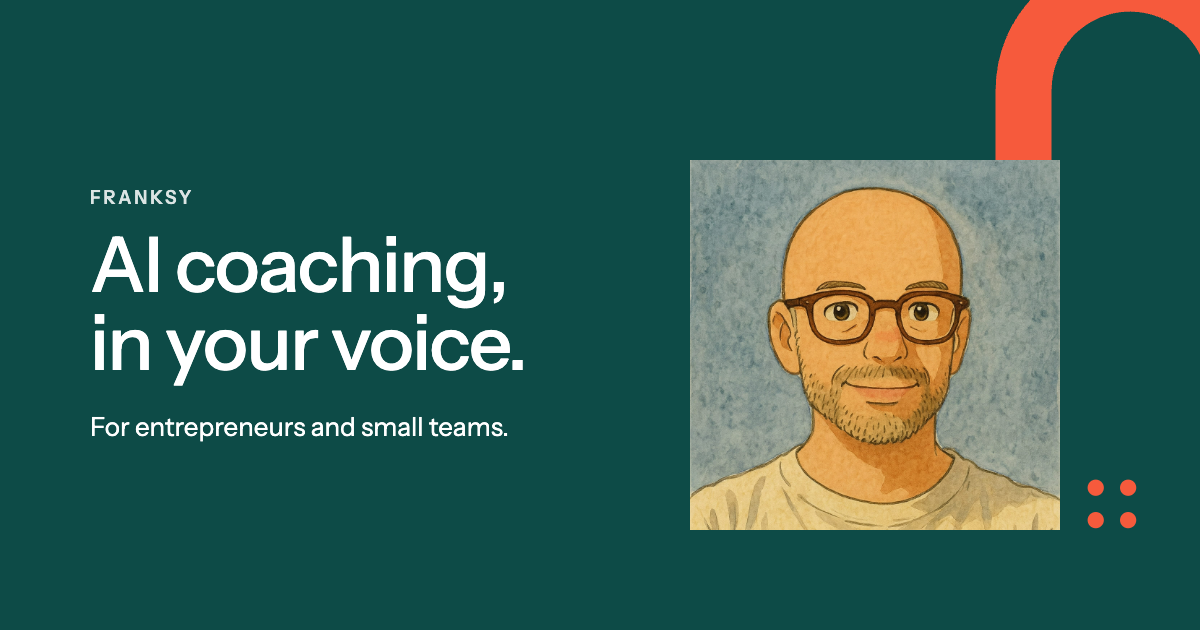
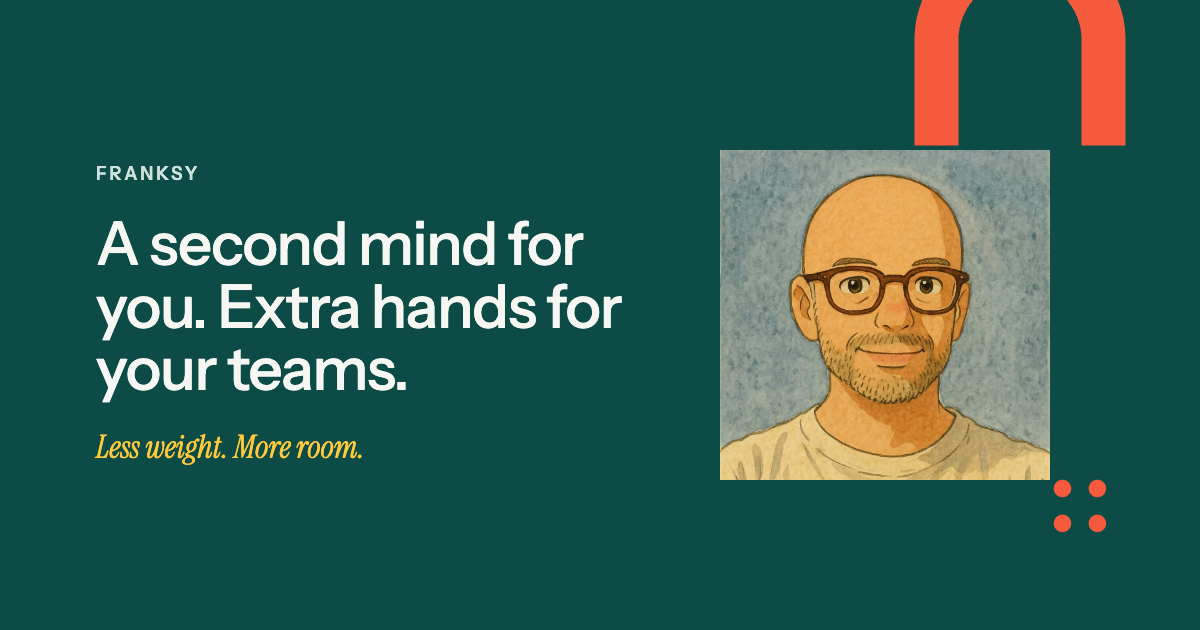
feat(home): say what is offered first, livelier framework section, new link previews
- Homepage order: hero, what this is (new statement), the five levels as
  cards (shape, delegation meter, who does what, an example), about Frank,
  then the 25-years line under the bio, two doors, booking.
- Framework teaser states what it is ("Five levels of AI fluency").
- New social preview cards per page and language (public/og/), drawn from
  scripts/og/card.html; og-image.png now shows the new homepage line.
- Layout takes an ogImage prop; test checks each page's preview image.

Requested by Frank.

Changed region(s): [[0.555, 0.0, 1.0, 0.8444], [0.0617, 0.2413, 0.5242, 0.6333], [0.0617, 0.6635, 0.4317, 0.754]]

diff --git a/scripts/og/card.html b/scripts/og/card.html
@@ -1,0 +1,45 @@
+<!doctype html>
+<!-- Social preview card (1200x630). Rendered to public/og/*.png, see README in this folder.
+     Params: ?t=title&s=subline (URL-encoded). -->
+<html>
+<head>
+<meta charset="utf-8" />
+<link rel="preconnect" href="https://fonts.googleapis.com" />
+<link rel="stylesheet" href="https://fonts.googleapis.com/css2?family=Instrument+Sans:wght@400..600&family=Instrument+Serif:ital@1&display=swap" />
+<style>
+  * { margin: 0; padding: 0; box-sizing: border-box; }
+  html, body { width: 1200px; height: 630px; overflow: hidden; }
+  body {
+    background: #0D4B47;
+    color: #F6F6F2;
+    font-family: 'Instrument Sans', sans-serif;
+    position: relative;
+  }
+  .arch { position: absolute; top: -70px; right: 70px; width: 220px; }
+  .dots { position: absolute; right: 92px; bottom: 96px; width: 56px; }
+  .text { position: absolute; left: 96px; top: 0; bottom: 0; width: 600px; display: flex; flex-direction: column; justify-content: center; }
+  .brand { font-size: 18px; font-weight: 600; letter-spacing: 0.16em; text-transform: uppercase; color: #CFE0DD; margin-bottom: 28px; }
+  h1 { font-weight: 500; letter-spacing: -0.02em; line-height: 1.04; }
+  .sub { margin-top: 28px; font-family: 'Instrument Serif', serif; font-style: italic; font-size: 32px; line-height: 1.25; color: #FFC93A; }
+  .portrait { position: absolute; right: 150px; top: 150px; width: 330px; height: 330px; object-fit: cover; }
+</style>
+</head>
+<body>
+  <img class="arch" src="/brand/arch-scarlet.svg" alt="" />
+  <img class="portrait" src="/frank-sykes.jpg" alt="" />
+  <img class="dots" src="/brand/dots-scarlet.svg" alt="" />
+  <div class="text">
+    <div class="brand">Franksy</div>
+    <h1 id="t"></h1>
+    <p class="sub" id="s"></p>
+  </div>
+  <script>
+    const q = new URLSearchParams(location.search);
+    const t = q.get('t') || '';
+    const h = document.getElementById('t');
+    h.textContent = t;
+    h.style.fontSize = (t.length > 60 ? 52 : t.length > 36 ? 60 : 72) + 'px';
+    document.getElementById('s').textContent = q.get('s') || '';
+  </script>
+</body>
+</html>

diff --git a/tests/build-output.test.ts b/tests/build-output.test.ts
@@ -216,6 +216,14 @@ describe('U4 — about, framework and offer pages (EN + FR)', () => {
     }
   });
 
+  it('home, framework and offer pages each carry their own social preview image', () => {
+    for (const { path, locale } of ROUTES.filter((r) => !r.path.includes('about'))) {
+      const img = dist(path).querySelector('meta[property="og:image"]')?.getAttribute('content') ?? '';
+      expect(img).toMatch(new RegExp(`^https://franksy\\.me/og/[a-z-]+-${locale}\\.png$`));
+      expect(existsSync(`dist${img.replace('https://franksy.me', '')}`)).toBe(true);
+    }
+  });
+
   it('homepages show the two doors', () => {
     for (const path of ['index.html', 'fr/index.html']) {
       expect(dist(path).querySelectorAll('.door').length).toBe(2);

diff --git a/src/styles/home.css b/src/styles/home.css
@@ -254,3 +254,10 @@
   .about-body { grid-template-columns: 1fr; gap: var(--space-6); }
   .about-portrait { width: 180px; }
 }
+
+/* ===== WHAT THIS IS (home) ===== */
+
+#what .bar { margin-bottom: var(--space-6); }
+
+/* The line under the bio on the homepage. */
+.about-statement { margin-top: var(--space-8); }

diff --git a/scripts/og/README.md b/scripts/og/README.md
@@ -1,0 +1,13 @@
+# Social preview cards
+
+`card.html` draws the 1200x630 image shown when a page link is shared. The
+rendered PNGs live in `public/og/`, one per page and language, and
+`public/og-image.png` (the homepage card in English) is the fallback.
+
+To redraw one:
+
+1. Copy `card.html` into `public/` and serve that folder (`python3 -m http.server 4330 --directory public`).
+2. Open `http://localhost:4330/card.html?t=<title>&s=<sub-line>` at 1200x630 and save a screenshot.
+3. Save it as `public/og/<page>-<lang>.png`, then delete the copy from `public/`.
+
+The titles and sub-lines used today match each page's hero.
